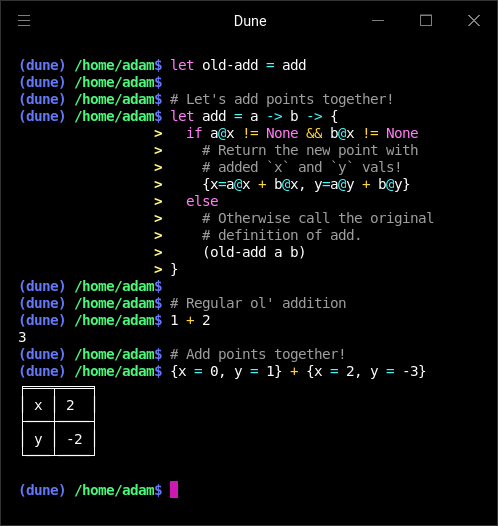
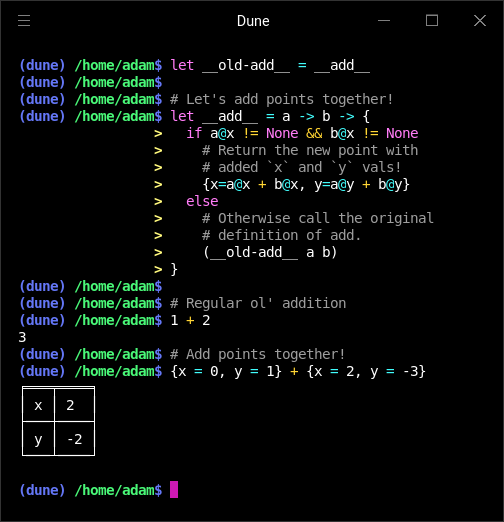
Changed name of operators to be more like python

diff --git a/src/binary/init/operator_module.rs b/src/binary/init/operator_module.rs
@@ -2,7 +2,7 @@ use dune::{Environment, Error, Expression};
 
 pub fn add_to(env: &mut Environment) {
     env.define_builtin(
-        "add",
+        "__add__",
         |args, env| {
             let mut result = args[0].clone().eval(env)?;
             for arg in &args[1..] {
@@ -18,11 +18,11 @@ pub fn add_to(env: &mut Environment) {
             }
             Ok(result)
         },
-        "add two numbers",
+        "add two expressions",
     );
 
     env.define_builtin(
-        "sub",
+        "__sub__",
         |args, env| {
             let mut result = args[0].clone().eval(env)?;
             for arg in &args[1..] {
@@ -38,21 +38,11 @@ pub fn add_to(env: &mut Environment) {
             }
             Ok(result)
         },
-        "subtract two numbers",
+        "subtract two expressions",
     );
 
     env.define_builtin(
-        "neg",
-        |args, env| match args[0].clone().eval(env)? {
-            Expression::Integer(n) => Ok(Expression::Integer(-n)),
-            Expression::Float(n) => Ok(Expression::Float(-n)),
-            x => Err(Error::CustomError(format!("cannot negate {:?}", x))),
-        },
-        "negate a number",
-    );
-
-    env.define_builtin(
-        "mul",
+        "__mul__",
         |args, env| {
             let mut result = args[0].clone().eval(env)?;
             for arg in &args[1..] {
@@ -68,11 +58,11 @@ pub fn add_to(env: &mut Environment) {
             }
             Ok(result)
         },
-        "multiply two numbers",
+        "multiply two expressions",
     );
 
     env.define_builtin(
-        "div",
+        "__div__",
         |args, env| {
             let mut result = args[0].clone().eval(env)?;
             for arg in &args[1..] {
@@ -88,11 +78,11 @@ pub fn add_to(env: &mut Environment) {
             }
             Ok(result)
         },
-        "divide two numbers",
+        "divide two expressions",
     );
 
     env.define_builtin(
-        "rem",
+        "__rem__",
         |args, env| {
             let mut result = args[0].clone().eval(env)?;
             for arg in &args[1..] {
@@ -108,11 +98,11 @@ pub fn add_to(env: &mut Environment) {
             }
             Ok(result)
         },
-        "remainder two numbers",
+        "get the remainder of two expressions",
     );
 
     env.define_builtin(
-        "and",
+        "__and__",
         |args, env| {
             Ok(Expression::Boolean(
                 args.into_iter()
@@ -126,7 +116,7 @@ pub fn add_to(env: &mut Environment) {
     );
 
     env.define_builtin(
-        "or",
+        "__or__",
         |args, env| {
             Ok(Expression::Boolean(
                 args.into_iter()
@@ -140,7 +130,7 @@ pub fn add_to(env: &mut Environment) {
     );
 
     env.define_builtin(
-        "not",
+        "__not__",
         |args, env| {
             Ok(Expression::Boolean(
                 args.into_iter()
@@ -154,7 +144,7 @@ pub fn add_to(env: &mut Environment) {
     );
 
     env.define_builtin(
-        "eq",
+        "__eq__",
         |args, env| {
             Ok(Expression::Boolean(
                 args[0].eval(env)? == args[1].eval(env)?,
@@ -164,7 +154,7 @@ pub fn add_to(env: &mut Environment) {
     );
 
     env.define_builtin(
-        "neq",
+        "__neq__",
         |args, env| {
             Ok(Expression::Boolean(
                 args[0].eval(env)? != args[1].eval(env)?,
@@ -174,7 +164,7 @@ pub fn add_to(env: &mut Environment) {
     );
 
     env.define_builtin(
-        "lt",
+        "__lt__",
         |args, env| {
             Ok(Expression::Boolean(
                 args[0].clone().eval(env)? < args[1].clone().eval(env)?,
@@ -184,7 +174,7 @@ pub fn add_to(env: &mut Environment) {
     );
 
     env.define_builtin(
-        "lte",
+        "__lte__",
         |args, env| {
             Ok(Expression::Boolean(
                 args[0].clone().eval(env)? <= args[1].clone().eval(env)?,
@@ -194,7 +184,7 @@ pub fn add_to(env: &mut Environment) {
     );
 
     env.define_builtin(
-        "gt",
+        "__gt__",
         |args, env| {
             Ok(Expression::Boolean(
                 args[0].clone().eval(env)? > args[1].clone().eval(env)?,
@@ -204,7 +194,7 @@ pub fn add_to(env: &mut Environment) {
     );
 
     env.define_builtin(
-        "gte",
+        "__gte__",
         |args, env| {
             Ok(Expression::Boolean(
                 args[0].clone().eval(env)? >= args[1].clone().eval(env)?,
@@ -214,7 +204,7 @@ pub fn add_to(env: &mut Environment) {
     );
 
     env.define_builtin(
-        "index",
+        "__idx__",
         |args, env| {
             let mut val = args[0].eval(env)?;
             for arg in &args[1..] {

diff --git a/src/parser.rs b/src/parser.rs
@@ -291,7 +291,7 @@ fn parse_not(input: Tokens<'_>) -> IResult<Tokens<'_>, Expression, SyntaxError> 
     let (input, _) = text("!")(input)?;
 
     map(parse_expression_prec_four, |x| {
-        Expression::Apply(Box::new(Expression::Symbol("not".to_string())), vec![x])
+        Expression::Apply(Box::new(Expression::Symbol("__not__".to_string())), vec![x])
     })(input)
 }
 
@@ -579,7 +579,7 @@ fn parse_expression(input: Tokens<'_>) -> IResult<Tokens<'_>, Expression, Syntax
     Ok((
         input,
         Expression::Group(Box::new(Expression::Apply(
-            Box::new(Expression::Symbol("pipe".to_string())),
+            Box::new(Expression::Symbol("__pipe__".to_string())),
             args,
         ))),
     ))
@@ -614,8 +614,8 @@ fn parse_expression_prec_six(input: Tokens<'_>) -> IResult<Tokens<'_>, Expressio
     while let Some((op, item)) = list.pop() {
         let op_fun = Expression::Symbol(
             match op.text {
-                "&&" => "and",
-                "||" => "or",
+                "&&" => "__and__",
+                "||" => "__or__",
                 _ => unreachable!(),
             }
             .to_string(),
@@ -707,12 +707,12 @@ fn parse_expression_prec_five(input: Tokens<'_>) -> IResult<Tokens<'_>, Expressi
     while let Some((op, item)) = list.pop() {
         let op_fun = Expression::Symbol(
             match op.text {
-                "==" => "eq",
-                "!=" => "neq",
-                ">=" => "gte",
-                "<=" => "lte",
-                ">" => "gt",
-                "<" => "lt",
+                "==" => "__eq__",
+                "!=" => "__neq__",
+                ">=" => "__gte__",
+                "<=" => "__lte__",
+                ">" => "__gt__",
+                "<" => "__lt__",
                 _ => unreachable!(),
             }
             .to_string(),
@@ -744,8 +744,8 @@ fn parse_expression_prec_four(input: Tokens<'_>) -> IResult<Tokens<'_>, Expressi
     while let Some((op, item)) = list.pop() {
         let op_fun = Expression::Symbol(
             match op.text {
-                "+" => "add",
-                "-" => "sub",
+                "+" => "__add__",
+                "-" => "__sub__",
                 _ => unreachable!(),
             }
             .to_string(),
@@ -778,9 +778,9 @@ fn parse_expression_prec_three(input: Tokens<'_>) -> IResult<Tokens<'_>, Express
     while let Some((op, item)) = list.pop() {
         let op_fun = Expression::Symbol(
             match op.text {
-                "*" => "mul",
-                "//" => "div",
-                "%" => "rem",
+                "*" => "__mul__",
+                "//" => "__div__",
+                "%" => "__rem__",
                 _ => unreachable!(),
             }
             .to_string(),
@@ -810,7 +810,7 @@ fn parse_expression_prec_two(input: Tokens<'_>) -> IResult<Tokens<'_>, Expressio
 
     Ok((
         input,
-        Expression::Apply(Box::new(Expression::Symbol("index".to_string())), result),
+        Expression::Apply(Box::new(Expression::Symbol("__idx__".to_string())), result),
     ))
 }
 

diff --git a/src/binary/init/pipe_module.rs b/src/binary/init/pipe_module.rs
@@ -5,6 +5,13 @@ use std::{
 
 use dune::{Environment, Error, Expression};
 
+pub fn add_to(env: &mut Environment) {
+    // This is a special form that takes a list of expressions
+    // and interprets them as a commands.
+    // It pipes the result of each command to the next one.
+    env.define_builtin("__pipe__", pipe_builtin, "pipe input through a list of commands");
+}
+
 fn pipe_builtin(args: Vec<Expression>, env: &mut Environment) -> Result<Expression, Error> {
     if args.len() <= 1 {
         return Err(Error::CustomError(
@@ -154,13 +161,6 @@ fn pipe_builtin(args: Vec<Expression>, env: &mut Environment) -> Result<Expressi
     }
     // Return the accumulated Dune expression.
     Ok(result_of_last_cmd)
-}
-
-pub fn add_to(env: &mut Environment) {
-    // This is a special form that takes a list of expressions
-    // and interprets them as a commands.
-    // It pipes the result of each command to the next one.
-    env.define_builtin("pipe", pipe_builtin, "pipe commands");
 }
 
 /// Interpret a Dune expression as a program to be executed.
